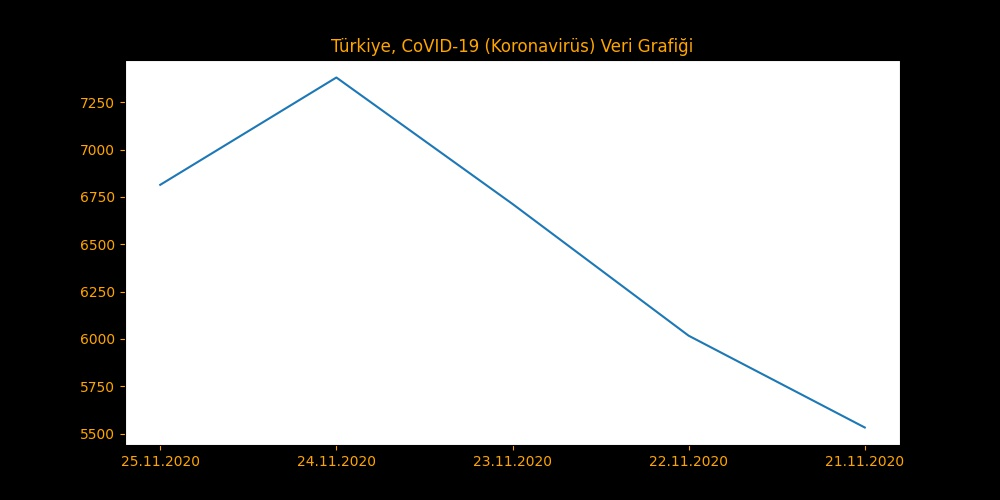
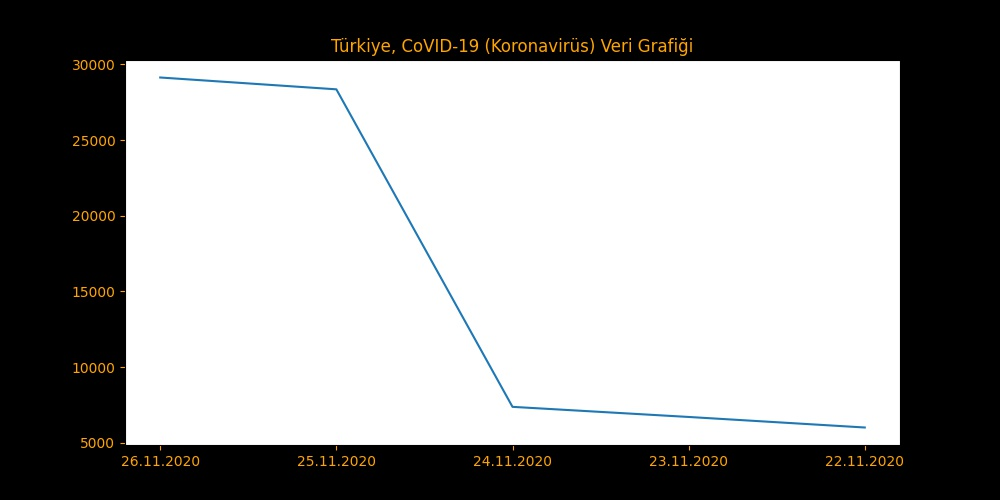
:notebook: 26.11.2020 Update
Goverment now gives sick & detected counts data seperately. Graphics now display detected people instead of sick people.

diff --git a/README_TR.md b/README_TR.md
@@ -11,18 +11,18 @@ Burada, Türkiye'nin [COVID-19 (Koronavirüs) (Hakkında bilgi almak için tıkl
 Not: Bütün veriler, Türkiye Sağlık Bakanlığı'ndan sağlanmaktadır. Eğer veriler güncel değilse, bu büyük ihtimal [devletin web sitesi](https://covid19.saglik.gov.tr) ile alakalıdır. Tamamdır, o zaman başlayalım!
 
 Öncelikle bugünün verileri:
-## :calendar: 25.11.2020 Koronavirüs Verileri:
+## :calendar: 26.11.2020 Koronavirüs Verileri:
 | Veri Tipi         | Bugünün Verileri   | Toplam Veriler     |
 | :---              |    :----           |     :---           |
-| Testler           | 164,547    | 17,857,777    |
-| Vakalar           | 6,814   | 470,915    |
-| Tedaviler         | 3,911    | 388,907|
-| Vefatlar          | 168| 12,933   |
+| Testler           | 168,348    | 18,029,926    |
+| Vakalar           | 29,132   | 86,615    |
+| Tedaviler         | 3,291    | 391,578|
+| Vefatlar          | 174| 13,113   |
 
-:clock9: `Son Güncelleme: 26.11.2020 01:30`
+:clock9: `Son Güncelleme: 26.11.2020 20:59`
 \
 \
-Ülkemiz ile alakalı gönderilen verilerde bir gariplik var. Devletin verdiği toplam veriler ile günlük veriler arasında uyuşmazlık mevcut. Eğer her günün verisini birbirine eklersek, Bizim hesaplamamız vakalar için **3185** tane daha az çıkıyor. Bu, ölümler için **93** , testler için **124257** ve tedavi olanlar için **3427** . Neden devletimiz böyle bir şey yapıyor anlamıyoruz. YOKSA VERİLER YANLIŞ MI??!?\
+Ülkemiz ile alakalı gönderilen verilerde bir gariplik var. Devletin verdiği toplam veriler ile günlük veriler arasında uyuşmazlık mevcut. Eğer her günün verisini birbirine eklersek, Bizim hesaplamamız vakalar için **387991** tane daha az çıkıyor. Bu, ölümler için **99** , testler için **128058** ve tedavi olanlar için **2807** . Neden devletimiz böyle bir şey yapıyor anlamıyoruz. YOKSA VERİLER YANLIŞ MI??!?\
 Neyse tamam, hadi grafikler hakkında konuşalım. Dünle bu günün karşılaştırma grafiği:\
 ![Graph](https://github.com/lysep-corp/COVID-19/blob/master/Graphs/YESTERDAY_COMP_TODAY_TR.jpeg?raw=true)
 

diff --git a/README.md b/README.md
@@ -11,18 +11,18 @@ In this we will gonna show you where is the Turkey going about [COVID-19 Pandemi
 Note: All the data coming from Türk Ministery of Health's public website. If datas are not up-to-date, probably this is about the [goverment's website](https://covid19.saglik.gov.tr) if our server's are not die. Okey, Let's start than!
 
 First today's datas:
-## :calendar: 25.11.2020 Corona virus Datas:
+## :calendar: 26.11.2020 Corona virus Datas:
 | Data Type         | Today's Datas      | All Time Data      |
 | :---              |    :----           |     :---           |
-| Tests             | 164,547    | 470,915    |
-| Cases             | 6,814   | 12,933   |
-| Cures             | 3,911    | 17,857,777    |
-| Deaths            | 168| 388,907|
+| Tests             | 168,348    | 86,615    |
+| Cases             | 29,132   | 13,113   |
+| Cures             | 3,291    | 18,029,926    |
+| Deaths            | 174| 391,578|
 
-:clock9: `Last Update: 26.11.2020 01:30`
+:clock9: `Last Update: 26.11.2020 20:59`
 \
 \
-There is something weird going on about our country's data. There is a little bit difference about goverment's all time data and daily datas. If we gonna add everyday's data to each other, Our calculation is **3185** less than the goverment's case calculation. It's **93** for deaths, **124257** for tests and **3427** for cured person count. We don't know why our country is doing that. ARE THE DATAS WRONG??!?\
+There is something weird going on about our country's data. There is a little bit difference about goverment's all time data and daily datas. If we gonna add everyday's data to each other, Our calculation is **387991** less than the goverment's case calculation. It's **99** for deaths, **128058** for tests and **2807** for cured person count. We don't know why our country is doing that. ARE THE DATAS WRONG??!?\
 Okey, let's talk about the graphs. Here is today's data is compare with yesterdays:\
 ![YESTERDAY_COMP_TODAY_EN](https://github.com/lysep-corp/COVID-19/blob/master/Graphs/YESTERDAY_COMP_TODAY_EN.jpeg?raw=true)
 
